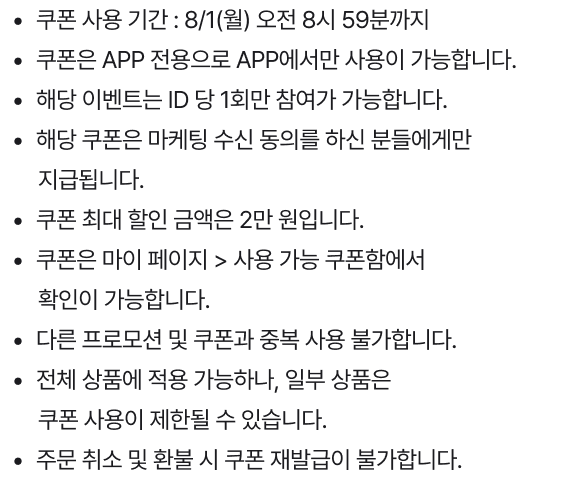
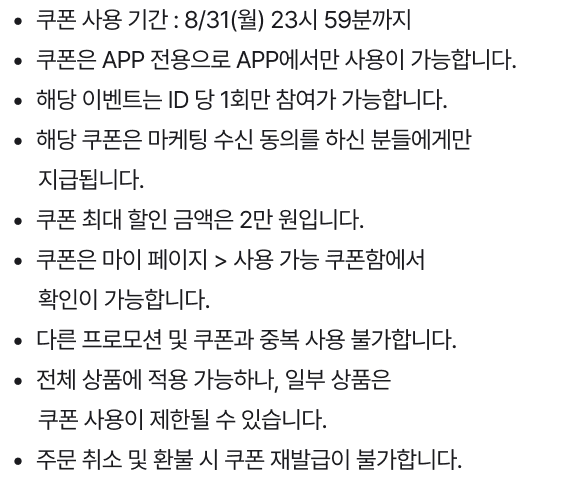
CDEV-304 푸시 기획전 기간 연장

Changed region(s): [[0.3438, 0.0, 0.75, 0.0625]]

diff --git a/pushon/main.html b/pushon/main.html
@@ -43,26 +43,26 @@
         <dl class="event-intro__message">
             <dt>PUSH ON & ON</dt>
             <dd>
-				APP 수신 동의 시 15% 특별 쿠폰 증정!<br>
-				07.01 - 07.31
+				APP 수신 동의 시 15% 특별 쿠폰 증정!
             </dd>
         </dl>
-		<div class="type_mw">
-			<ul class="event-intro__list">       
-				<li class="type-arrow">
-					<strong class="event-color">ON 1</strong>
-					<p>특별 쿠폰</p>
-				</li>
-				<li class="type-arrow">
-					<strong class="event-color">ON 2</strong>
-					<p>꿀 정보</p>
-				</li>
-				<li class="type-arrow">
-					<strong class="event-color">ON 3</strong>
-					<p>추천 소식</p>
-				</li>
-			</ul>
-		</div>
+        <!-- 8/1 09시 기준 삭제!!!
+        <div class="type_mw">
+            <ul class="event-intro__list">       
+                <li class="type-arrow">
+                    <strong class="event-color">ON 1</strong>
+                    <p>특별 쿠폰</p>
+                </li>
+                <li class="type-arrow">
+                    <strong class="event-color">ON 2</strong>
+                    <p>꿀 정보</p>
+                </li>
+                <li class="type-arrow">
+                    <strong class="event-color">ON 3</strong>
+                    <p>추천 소식</p>
+                </li>
+            </ul>
+        </div> -->
 		<p class="event-intro__message02">
             가장 먼저 듣는 한스타일 소식<br><br>
 			놓치기 아까운 혜택을<br>
@@ -141,40 +141,41 @@
 		</ul>
 	</section>
 
-	<section class="event-cont event-cont--gray">
-		<h3 class="event-cont__title">
-			<sup class="event-color">ON. 03</sup>
-			<strong>당신만을 위한<br>추천 소식 ON</strong>
-			<span>더 많은 혜택과<br>베스트 추천 아이템까지!</span>
-		</h3>
+    <!-- 8/1 09시 기준 삭제!!!
+    <section class="event-cont event-cont--gray">
+        <h3 class="event-cont__title">
+            <sup class="event-color">ON. 03</sup>
+            <strong>당신만을 위한<br>추천 소식 ON</strong>
+            <span>더 많은 혜택과<br>베스트 추천 아이템까지!</span>
+        </h3>
 
-		<ul class="pushon-list02">
-			<li>
-				<div class="pushon-list02__inbox">
-					<strong>토스페이x삼성카드</strong>
-					<ul>
-						<li>토스페이에 등록된 삼성카드로<br />10만원 이상 결제 시<br />10% 즉시 할인(최대 1만원)</li>
-					</ul>
-					<em>7/1(금) - 7/31(일) 기간 내 1회 한정</em>
-				</div>
-				<span class="tit-img"><img src="img/event_img_logo01.png" width="80" height="80" alt="토스페이"></span>
-			</li>
-			<li>
-				<div class="pushon-list02__inbox">
-					<strong>토스 생애 첫 결제</strong>
-					<ul>
-						<li>토스페이 생애 첫 결제 <br />5천원 캐시백<br />(3만원 이상 결제 시)</li>
-					</ul>
-					<em>7/1(금) - 7/31(일) 기간 내 1회 한정</em>
-				</div>
-				<span class="tit-img"><img src="img/event_img_logo02.png" width="80" height="80" alt="하나카드"></span>
-			</li>
-		</ul>
+        <ul class="pushon-list02">
+            <li>
+                <div class="pushon-list02__inbox">
+                    <strong>토스페이x삼성카드</strong>
+                    <ul>
+                        <li>토스페이에 등록된 삼성카드로<br />10만원 이상 결제 시<br />10% 즉시 할인(최대 1만원)</li>
+                    </ul>
+                    <em>7/1(금) - 7/31(일) 기간 내 1회 한정</em>
+                </div>
+                <span class="tit-img"><img src="img/event_img_logo01.png" width="80" height="80" alt="토스페이"></span>
+            </li>
+            <li>
+                <div class="pushon-list02__inbox">
+                    <strong>토스 생애 첫 결제</strong>
+                    <ul>
+                        <li>토스페이 생애 첫 결제 <br />5천원 캐시백<br />(3만원 이상 결제 시)</li>
+                    </ul>
+                    <em>7/1(금) - 7/31(일) 기간 내 1회 한정</em>
+                </div>
+                <span class="tit-img"><img src="img/event_img_logo02.png" width="80" height="80" alt="하나카드"></span>
+            </li>
+        </ul>
 
-		<div class="event-notice02">
-			<button type="button" class="event-notice02__btn-arrow" id="btnNotice02"><span>유의사항</span></button>
-		</div>
-	</section>
+        <div class="event-notice02">
+            <button type="button" class="event-notice02__btn-arrow" id="btnNotice02"><span>유의사항</span></button>
+        </div>
+    </section>
 
     <section class="event-cont">
 		<h3 class="event-cont__title">
@@ -195,7 +196,7 @@
 				<a href="#none"><img src="img/event_best04.png" alt="라이프 베스트 아이템" /></a>
 			</li>
 		</ul>
-	</section>
+	</section> -->
 
     <section class="event-cont">
 		<h3 class="event-cont__title">
